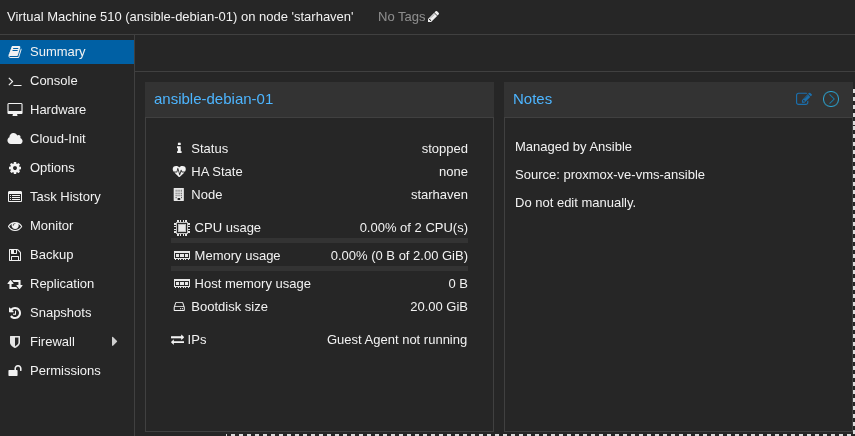
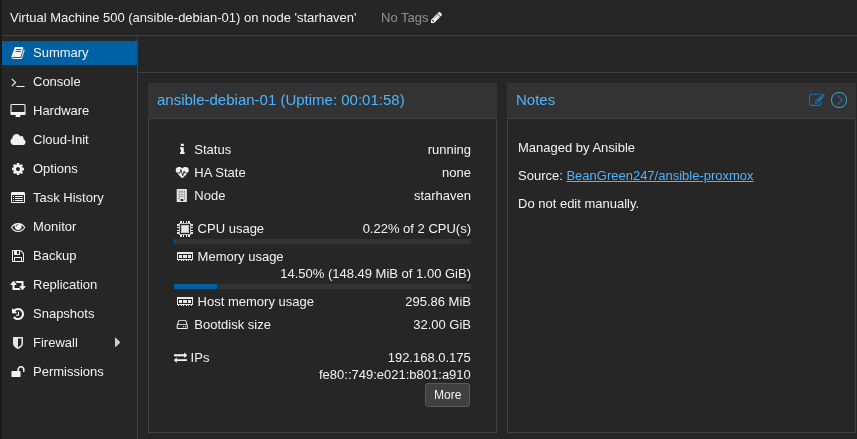
Update documentation and fix VM host details in inventory

diff --git a/docs/screenshots/README.md b/docs/screenshots/README.md
@@ -5,11 +5,12 @@ Screenshots showing the system working end-to-end, for use in the writeup.
 ## proxmox-vm-notes-field.png
 ![Proxmox VM Notes field showing Ansible management note](proxmox-vm-notes-field.png)
 
-**What it shows:** Proxmox web UI summary page for VM 510 (ansible-debian-01) on node 'starhaven'.
+**What it shows:** Proxmox web UI summary page for VM 500 (ansible-debian-01) on node 'starhaven'.
 The Notes field on the right confirms the `description` field set by `create-vm-from-iso-proxmox.yml` is
 visible in the Proxmox UI:
 
-> Managed by Ansible Source: proxmox-ve-vms-ansible
+> Managed by Ansible
+> Source: [BeanGreen247/ansible-proxmox](https://github.com/BeanGreen247/ansible-proxmox)
 > Do not edit manually.
 
 **Context:** Taken after running:
@@ -18,4 +19,4 @@ ansible-playbook -i inventory/hosts.ini create-vm-from-iso-proxmox.yml \
   --tags "createVMs,createDisks,mountIso,bootOrder"
 ```
 
-VM is in 'stopped' state, 2 CPU, 2 GiB RAM, 20 GiB boot disk, Guest Agent not yet running (VM not started).
+VM is in 'stopped' state, 2 CPU, 1 GiB RAM, 20 GiB boot disk, Guest Agent running (VM started).

diff --git a/docs/pipeline-walkthrough.md b/docs/pipeline-walkthrough.md
@@ -668,3 +668,7 @@ The discovered IP is stored in `inventory/hosts.ini` automatically under `[new-d
 | `preseed_ssh_wait_delay` | `preseed_vars.yml` | `30` | Polling interval in seconds |
 | `preseed_boot_wait_seconds` | `preseed_vars.yml` | `30` | Seconds to wait after VM power-on before polling guest agent |
 | `debian_base_packages` | `preseed_vars.yml` | `htop btop vim ...` | Packages installed by setup-debian-base.yml |
+
+---
+
+*Built and maintained by Thomas Mozdren — 2026*

diff --git a/docs/user-guide.md b/docs/user-guide.md
@@ -701,6 +701,4 @@ ansible-playbook -i inventory/hosts.ini deploy-nginx.yml    # or your own playbo
 
 ---
 
-## Credit
-
-Thomas Mozdren, 2026
+*Built and maintained by Thomas Mozdren — 2026*

diff --git a/README.md b/README.md
@@ -712,4 +712,3 @@ ansible-galaxy collection install -r collections/requirements.yml -p ./collectio
 ---
 
 *Built and maintained by Thomas Mozdren — 2026*
-|---|---|
